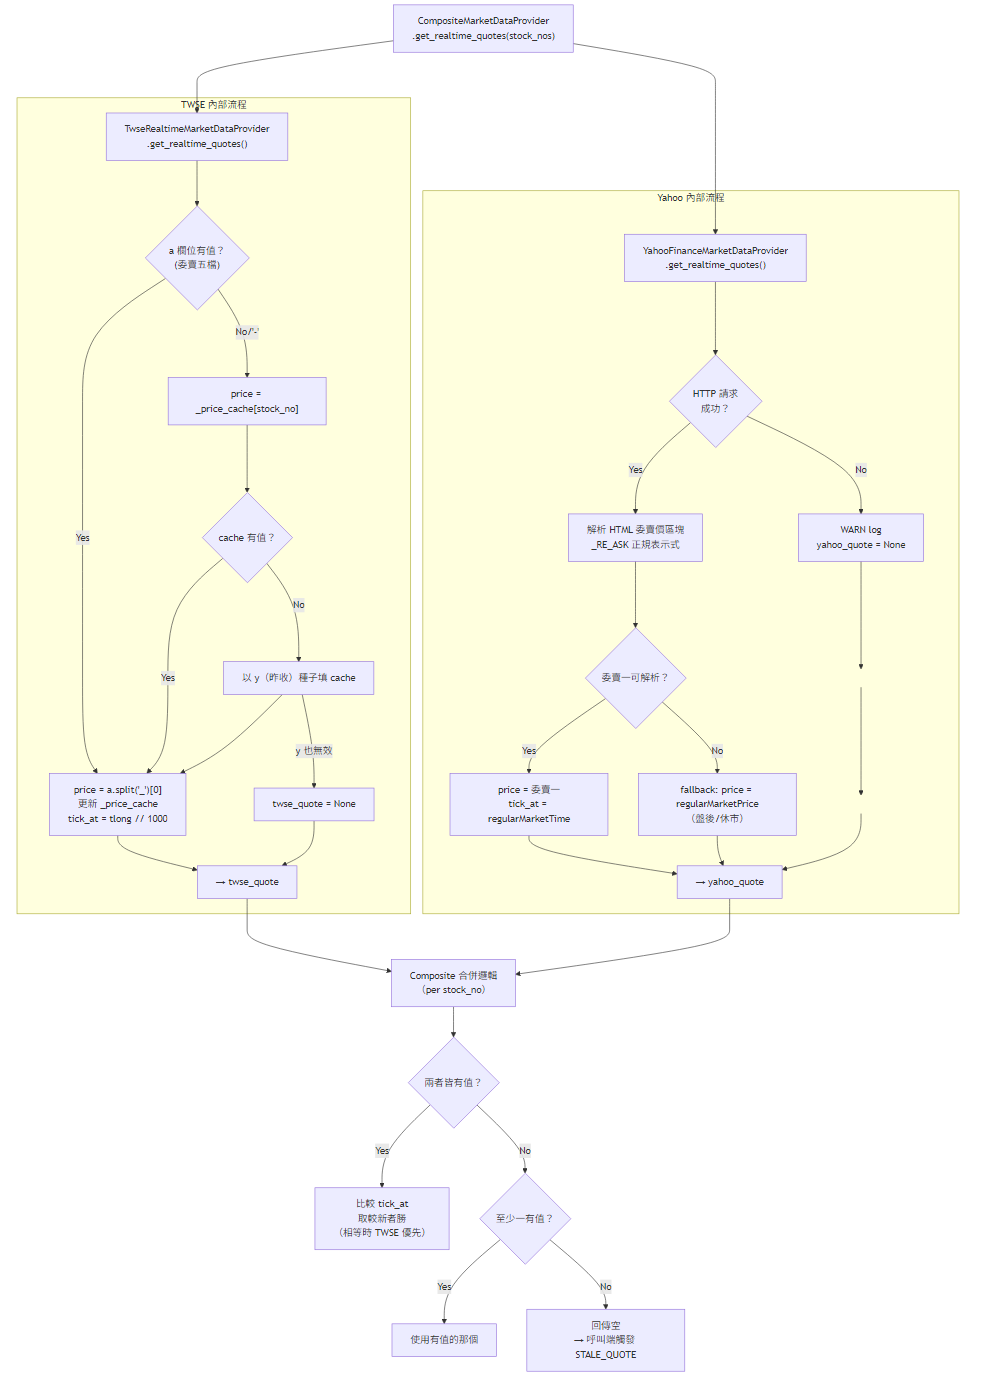
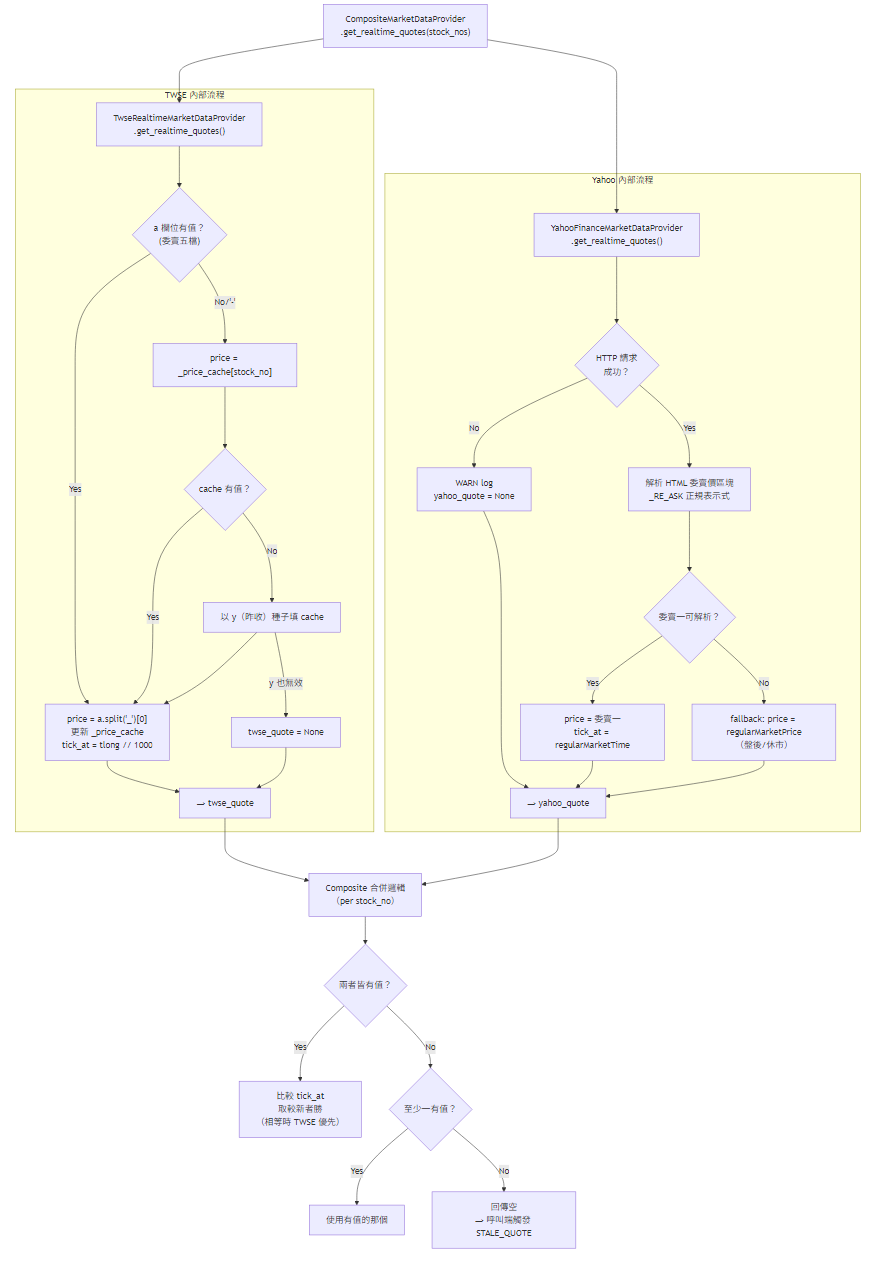
fix(docs): replace HPAD visible arrows with invisible ~~~ edges to eliminate broken-line artifacts in Yahoo block

diff --git a/docs/architecture/diagrams/05-market-data-adapter.md b/docs/architecture/diagrams/05-market-data-adapter.md
@@ -63,10 +63,11 @@ flowchart TD
             HTTP_CHK -- Yes --> HTML_PARSE --> ASK_CHK
             ASK_CHK -- Yes --> ASK_OK
             ASK_CHK -- No --> FB_PRICE
-            HTTP_CHK -- No --> HTTP_FAIL --> HPAD1 --> HPAD2
+            HTTP_CHK -- No --> HTTP_FAIL
+            HTTP_FAIL ~~~ HPAD1 ~~~ HPAD2 ~~~ YAHOO_OUT
+            HTTP_FAIL --> YAHOO_OUT
             ASK_OK --> YAHOO_OUT
             FB_PRICE --> YAHOO_OUT
-            HPAD2 --> YAHOO_OUT
         end
 
         style HPAD1 fill:none,stroke:none,color:none
